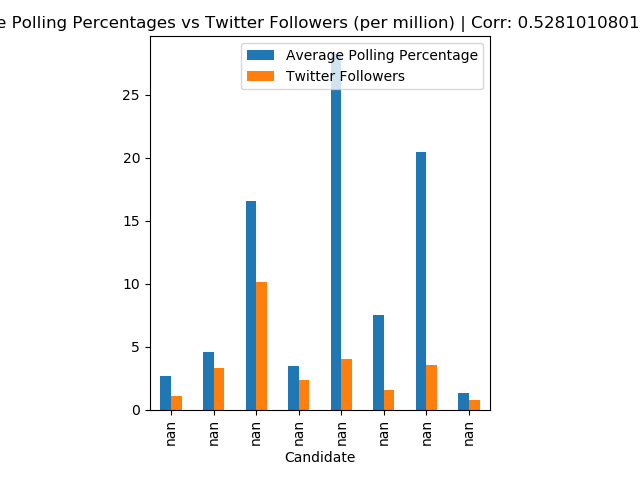
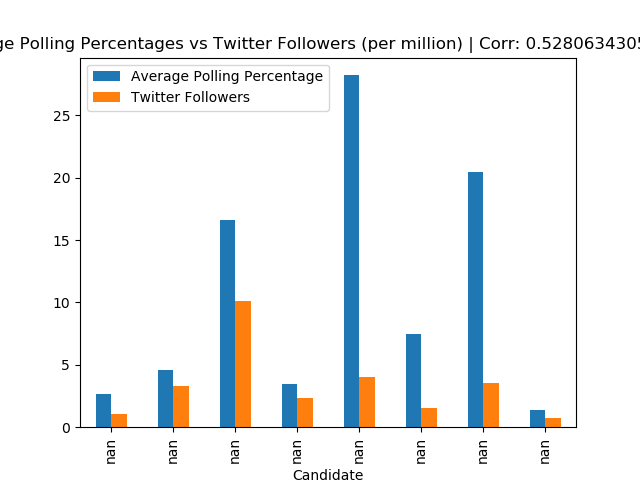
Titles and x axes of Gtrends graphs

diff --git a/gtrends_voting_web_visualizations.py b/gtrends_voting_web_visualizations.py
@@ -9,6 +9,7 @@ import os
 import pandas as pd
 import matplotlib as plt
 import urllib.request
+from textwrap import wrap
 
 
 1
@@ -76,12 +77,15 @@ pageviews_vs_gtrends = combined_df.iloc[:, [0, 1]]
 corr = pageviews_vs_gtrends.corr(method='pearson')
 print(corr)
 
-combined_df.iloc[:, [0, 1]].plot(kind="bar", title="Average Google Trend & Website Pageviews Score across Candidatess | Corr {}".format(corr.iloc[0,1]))
+combined_df.iloc[:, [0, 1]].plot(kind="bar", title="Average Google Trend & Website Pageviews Score across Candidates | Corr {}".format(corr.iloc[0,1]))
 
 
 
-ax = combined_df.iloc[:, [0, 1]].plot(kind="bar", title="Average Google Trend & Website Pageviews Score across Candidates | Corr {}".format(corr.iloc[0,1]))
+ax = combined_df.iloc[:, [0, 1]].plot(kind="bar", title="\n".join(wrap("Average Google Trend & Website Pageviews Score across Candidates | Corr {}".format(corr.iloc[0,1]))))
+title = ax.set_title("\n".join(wrap("Average Google Trend & Website Pageviews Score across Candidates | Corr {}".format(corr.iloc[0,1]), 60)))
 fig = ax.get_figure()
+fig.tight_layout()
+fig.subplots_adjust(top=0.88)
 fig.savefig('avg_gtrend_vs_pageviews.png')
  
 
@@ -100,14 +104,16 @@ df3
 combined_df = combined_df.merge(df3, left_on='Candidate', right_on='Candidate')
 combined_df
 
-combined_df.iloc[:, [0, 1, 6]].plot(kind="bar", title="Comparing Average Pageviews, Google Trends, and Polling Statistics across Candidates")
+combined_df.iloc[:, [0, 1, 6]].plot(kind="bar", title="Average Pageviews, Google Trends, and Polling Statistics across Candidates")
 
 data = combined_df.iloc[:, [0, 1, 6]]
 corr = data.corr(method='pearson')
 print(corr)
 
-ax = combined_df.iloc[:, [0, 1, 6]].plot(kind="bar", title="Comparing Average Pageviews, Google Trends, and Polling Statistics across Candidates")
+ax = combined_df.iloc[:, [0, 1, 6]].plot(kind="bar", title="Average Pageviews, Google Trends, and Polling Statistics across Candidates")
 fig = ax.get_figure()
+fig.tight_layout()
+fig.subplots_adjust(top=0.88)
 fig.savefig('avg_gtrend_vs_pageviews_vs_polling_statistics_dems.png')
 
 # In[ ]:
@@ -145,6 +151,7 @@ df
 df.iloc[:, [0,1,3]].plot(kind="bar", title="Average Google Trend Score across Candidates")
 ax = df.iloc[:, [0,1,3]].plot(kind="bar", title="Average Google Trend Score across Candidates")
 fig = ax.get_figure()
+fig.tight_layout()
 fig.savefig('avg_gtrend_all_candidates.png')
 
 df
